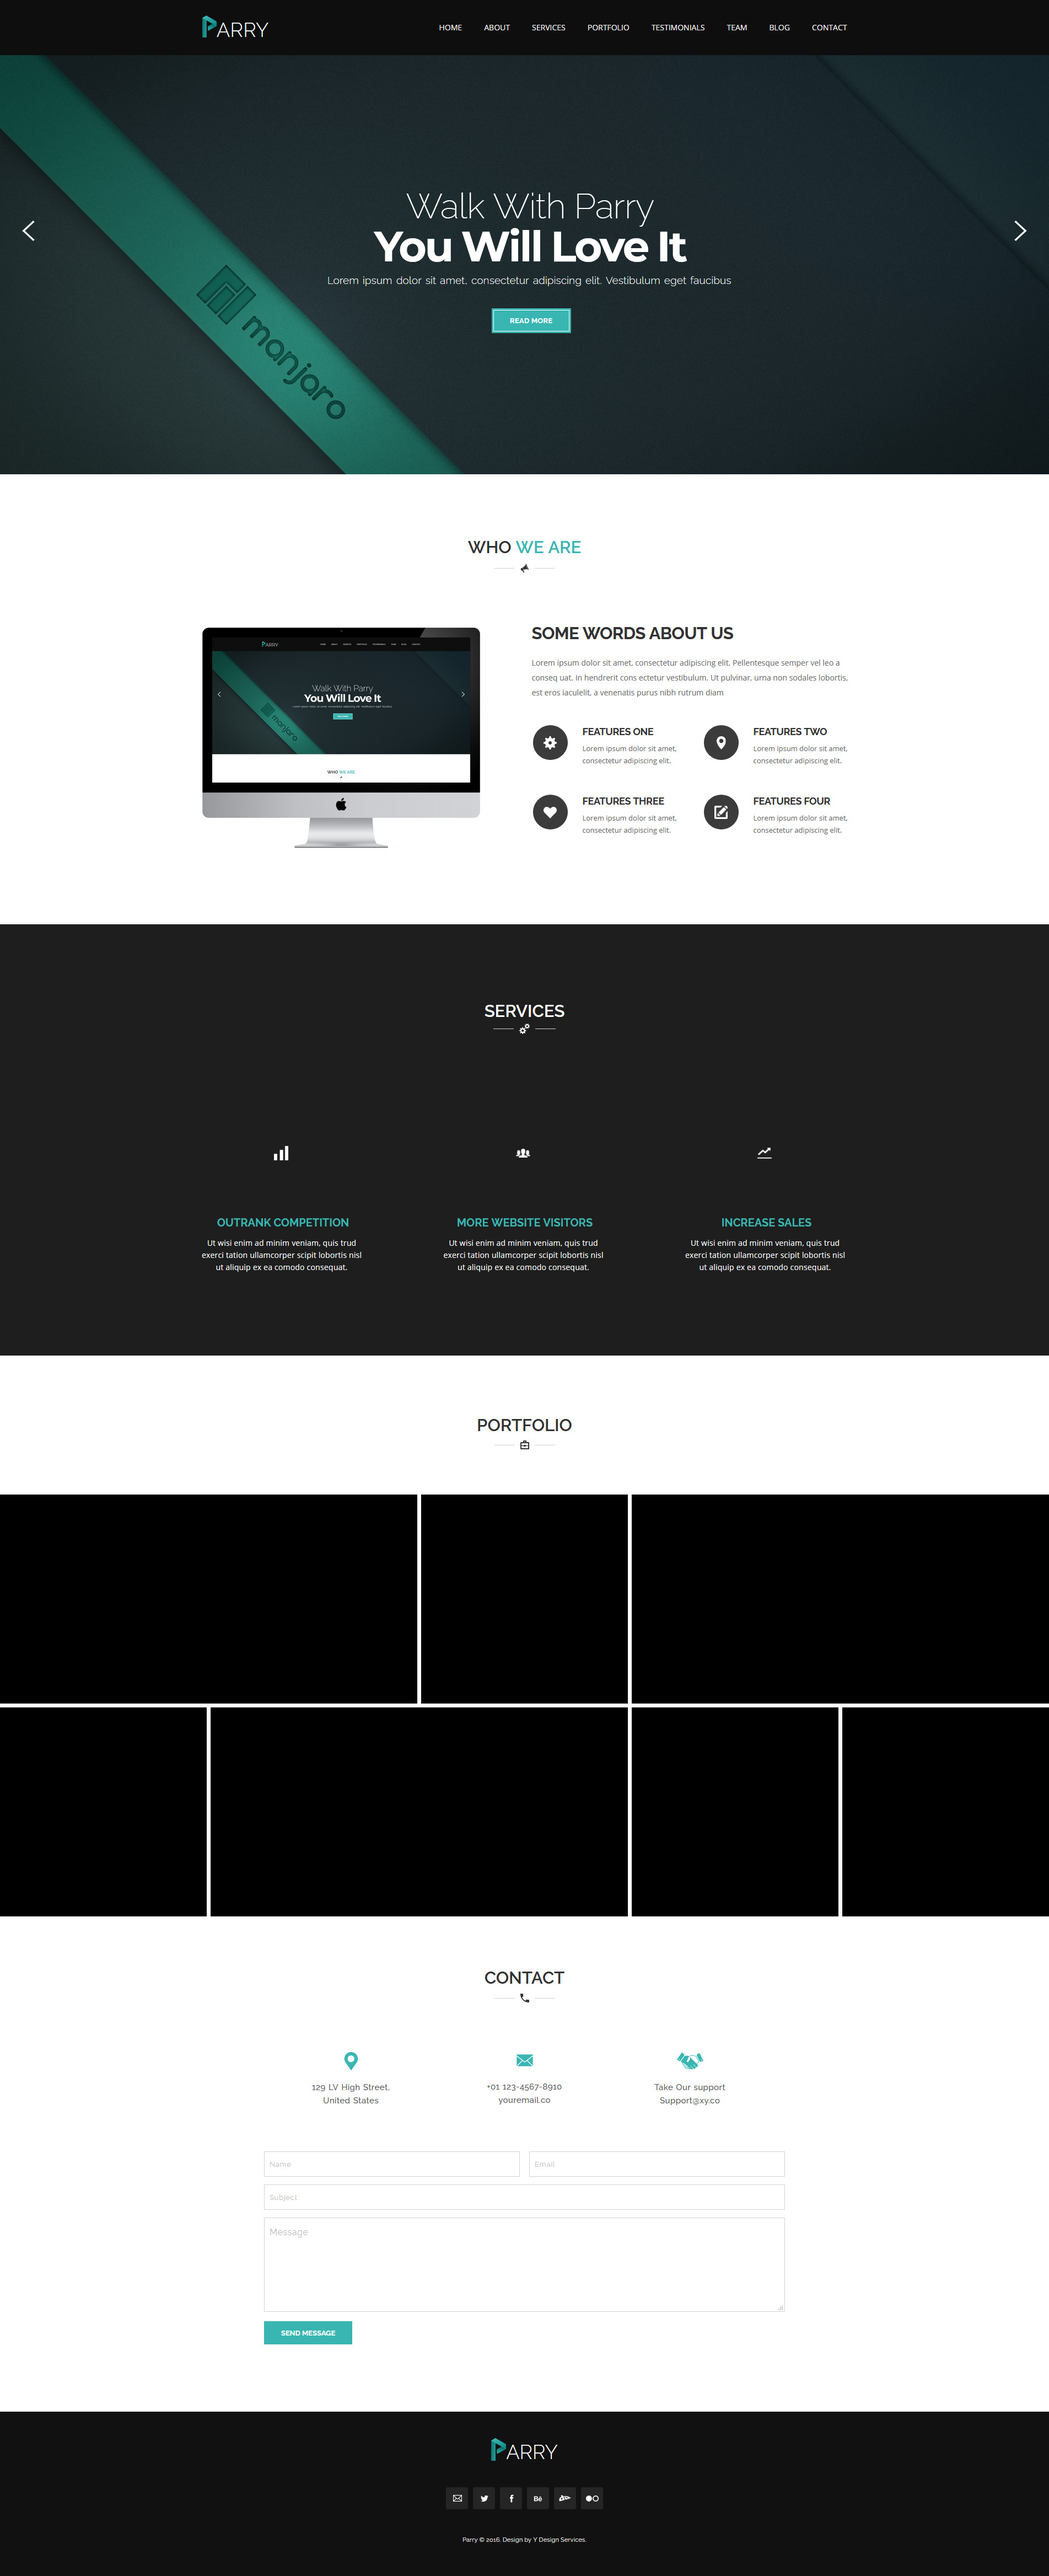
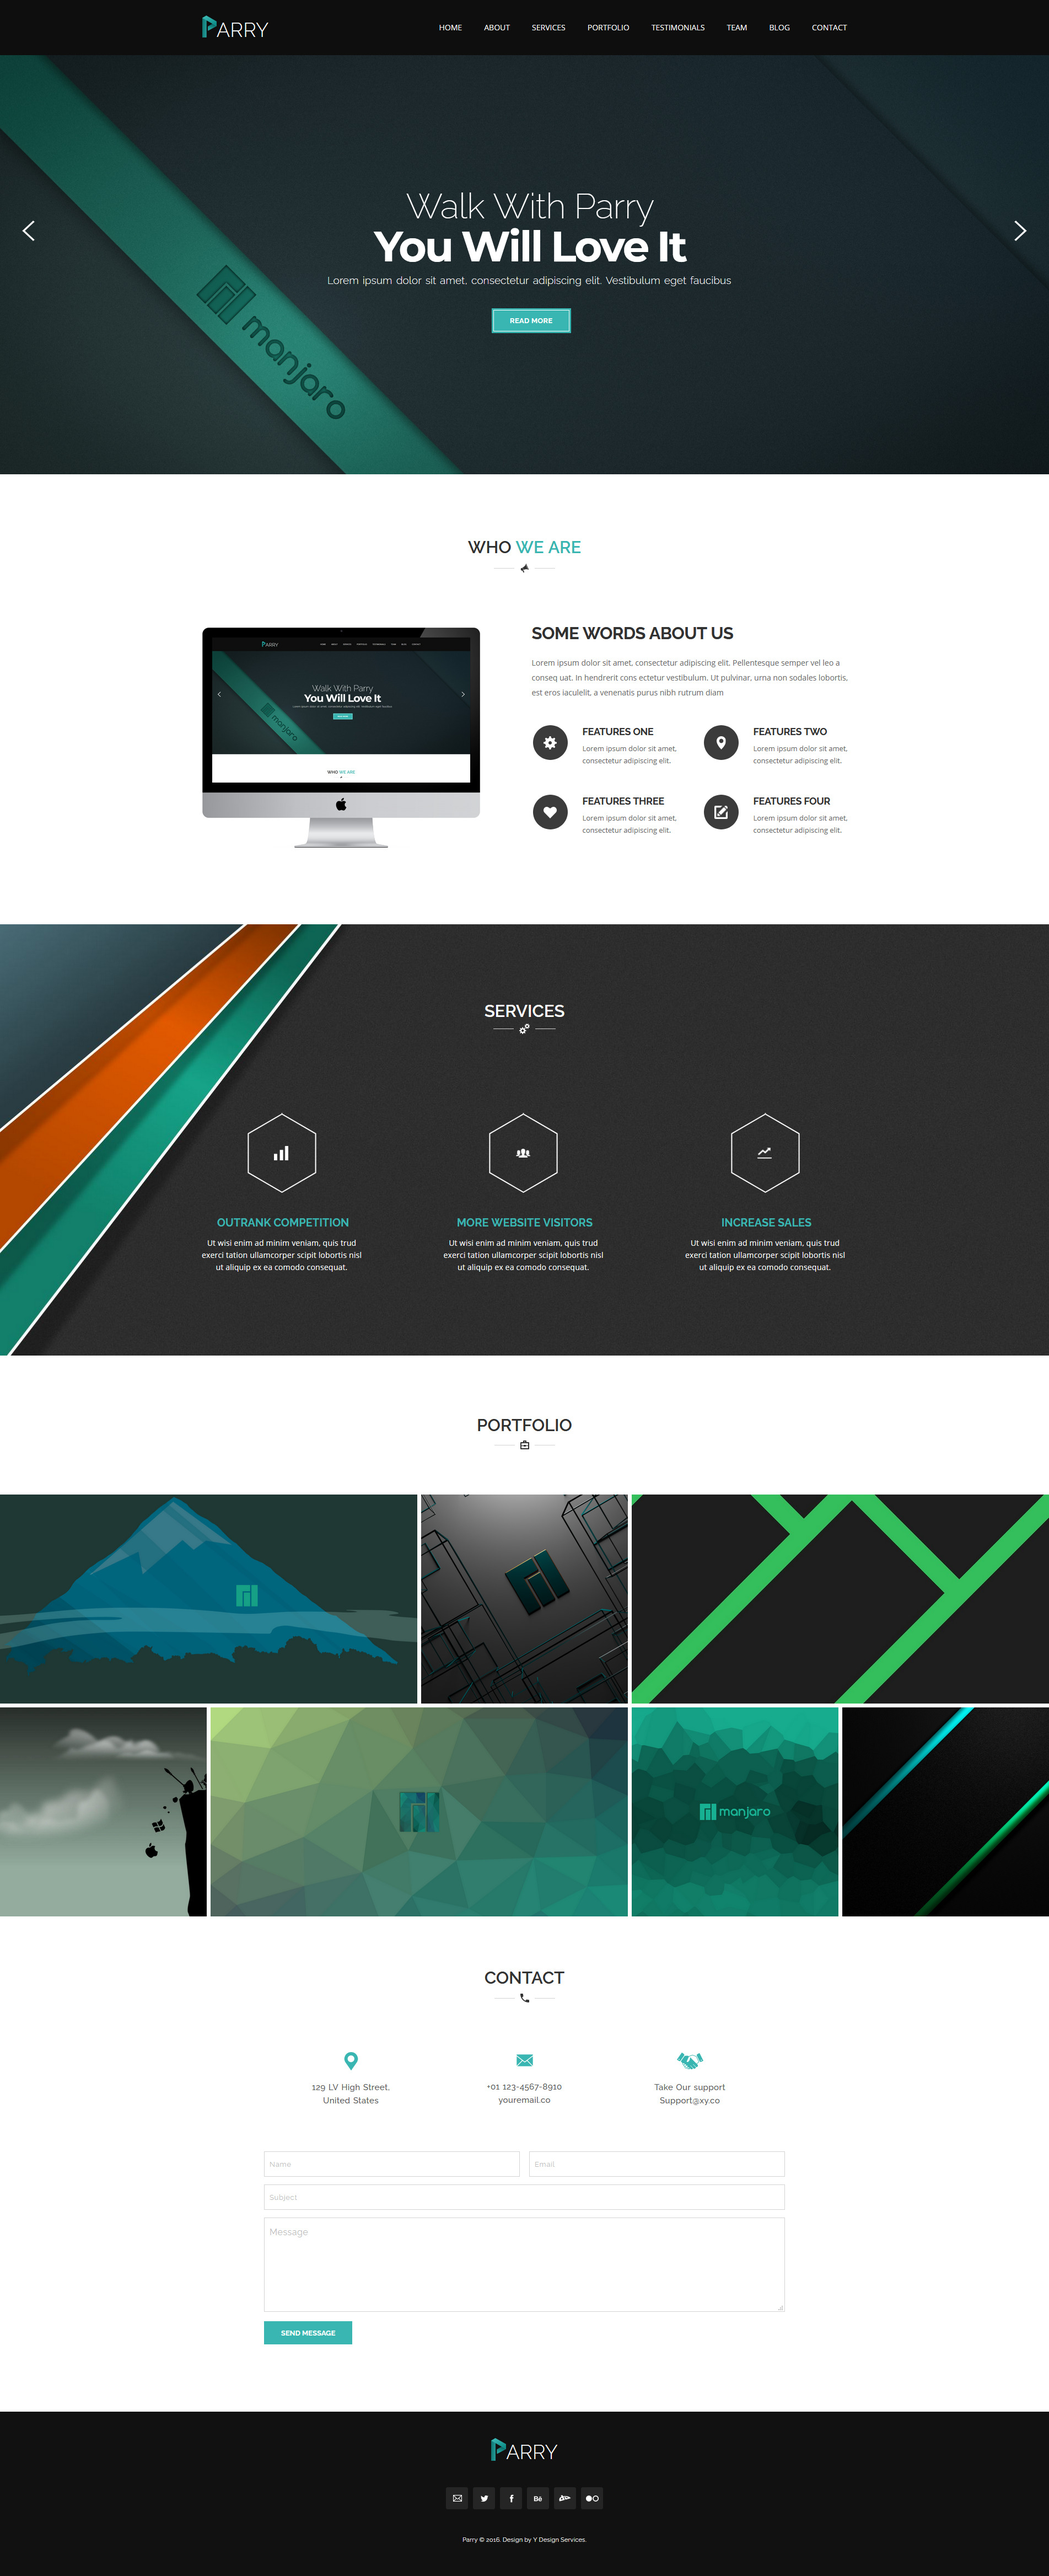
fix(transition, cards): Fix transition in menu and flipping of cardboards

Changed region(s): [[0.0, 0.5588, 1.0, 0.745], [0.0, 0.3415, 0.31, 0.5277], [0.8681, 0.714, 0.9611, 0.745]]

diff --git a/build/style.css b/build/style.css
@@ -15,6 +15,7 @@ span {
 
 html, body {
   min-width: 320px;
+  overflow-x: hidden;
 }
 
 .main {
@@ -142,6 +143,10 @@ header {
   width: 100%;
   align-items: center;
 }
+header .logo {
+  position: absolute;
+  left: 0;
+}
 header .logo .img {
   height: 100%;
 }
@@ -153,6 +158,12 @@ header .logo h1 {
   font-weight: 300;
   font-size: 1em;
 }
+header nav {
+  width: 740px;
+  display: block;
+  position: absolute;
+  right: 0;
+}
 header nav ul {
   width: 100%;
 }
@@ -163,17 +174,27 @@ header nav a {
   text-decoration: none;
 }
 header .burger {
+  display: flex;
+  position: absolute;
+  right: 0;
   background-color: #3AB6B2;
+  width: 56px;
+  height: 39px;
 }
 header .burger .inner {
+  width: 52px;
+  height: 35px;
   background-color: transparent;
   border: 1px solid #FFFFFF;
+}
+header .burger img {
+  width: 30px;
+  height: 12px;
 }
 
 @media screen and (min-width: 1025px) {
   header {
     grid-template-columns: minmax(25px, 1fr) minmax(970px, 1170px) minmax(25px, 1fr);
-    transition: all 1s;
   }
   header .logo {
     width: 121px;
@@ -184,23 +205,24 @@ header .burger .inner {
     margin-top: 12px;
     letter-spacing: 0.01em;
   }
-  header .burger {
-    display: none;
-  }
   header nav {
-    display: block;
     width: 740px;
     margin-bottom: 2px;
+    opacity: 1;
+    transition-property: width, margin-bottom, font-size, opacity;
+    transition-delay: 0s, 0s, 0s, 1s;
   }
   header nav a {
     font-size: 14px;
   }
-  header * {
-    transition: all 1s;
+  header .burger {
+    pointer-events: none;
+    opacity: 0;
   }
 }
 @media screen and (min-width: 1025px) and (max-width: 1200px) {
   header {
+    left: 0;
     height: 106px;
   }
   header .logo {
@@ -239,9 +261,11 @@ header .burger .inner {
     letter-spacing: 0.01em;
   }
   header .burger {
-    display: flex;
     width: 56px;
     height: 39px;
+    opacity: 1;
+    transition-property: width, height, opacity;
+    transition-delay: 0s, 0s, 1s;
   }
   header .burger .inner {
     width: 52px;
@@ -252,7 +276,8 @@ header .burger .inner {
     height: 12px;
   }
   header nav {
-    display: none;
+    pointer-events: none;
+    opacity: 0;
   }
 }
 @media screen and (max-width: 767px) {
@@ -273,11 +298,13 @@ header .burger .inner {
     letter-spacing: 0.01em;
   }
   header .burger {
-    display: flex;
     width: 17.5%;
     height: 50%;
     max-width: 56px;
     max-height: 39px;
+    opacity: 1;
+    transition-property: width, height, opacity;
+    transition-delay: 0s, 0s, 1s;
   }
   header .burger .inner {
     width: calc(100% - 4px);
@@ -289,7 +316,8 @@ header .burger .inner {
     height: 12px;
   }
   header nav {
-    display: none;
+    pointer-events: none;
+    opacity: 0;
   }
 }
 #home {
@@ -900,8 +928,9 @@ header .burger .inner {
   background-size: contain;
   background-position: center center;
 }
-#services .main .img:hover {
+#services .main .container:hover .img {
   background-image: url("../images/services/hexagon-hover.svg");
+  transform: rotateY(360deg);
 }
 
 @media screen and (min-width: 1025px) {

diff --git a/index.html b/index.html
@@ -149,22 +149,28 @@
             </div>
             <div class="main flex">
                 <div class="item">
-                    <div class="img center center-self">
-                        <img src="./images/services/chart.svg" alt="Chart Image">
+                    <div class="container">
+                        <div class="img center center-self">
+                            <img src="./images/services/chart.svg" alt="Chart Image">
+                        </div>
                     </div>
                     <h3>OUTRANK COMPETITION</h3>
                     <p>Ut wisi enim ad minim veniam, quis trud exerci tation ullamcorper scipit lobortis nisl ut aliquip ex ea comodo consequat.</p>
                 </div>
                 <div class="item">
-                    <div class="img center center-self">
-                        <img src="./images/services/visitors.svg" alt="Visitors Image">
+                    <div class="container">
+                        <div class="img center center-self">
+                            <img src="./images/services/visitors.svg" alt="Visitors Image">
+                        </div>
                     </div>
                     <h3>MORE WEBSITE VISITORS</h3>
                     <p>Ut wisi enim ad minim veniam, quis trud exerci tation ullamcorper scipit lobortis nisl ut aliquip ex ea comodo consequat.</p>
                 </div>
                 <div class="item">
-                    <div class="img center center-self">
-                        <img src="./images/services/stocks.svg" alt="Stocks Image">
+                    <div class="container">
+                        <div class="img center center-self">
+                            <img src="./images/services/stocks.svg" alt="Stocks Image">
+                        </div>
                     </div>
                     <h3>INCREASE SALES</h3>
                     <p>Ut wisi enim ad minim veniam, quis trud exerci tation ullamcorper scipit lobortis nisl ut aliquip ex ea comodo consequat.</p>

diff --git a/styles/components/header/_desktop.scss b/styles/components/header/_desktop.scss
@@ -13,35 +13,30 @@
                 margin-top: 12px;
                 letter-spacing: 0.01em;
             }
-        }
-
-        .burger {
-            display: none;
-        }
-
-        
+        }        
 
         nav {
-            display: block;
-
             width: 740px;
             margin-bottom: 2px;
 
             a {
                 font-size: 14px;
             }
+            opacity: 1;
+            transition-property: width, margin-bottom, font-size, opacity;
+            transition-delay: 0s, 0s, 0s, 1s;
         }
 
-        transition: all 1s;
-        
-        * {
-            transition: all 1s;
+        .burger {
+            pointer-events: none;
+            opacity: 0;
         }
     }
 }
 
 @media screen and (min-width: 1025px) and (max-width: 1200px) {
     header{
+        left: 0;
         height: 106px;
 
         .logo {

diff --git a/styles/components/header/_base.scss b/styles/components/header/_base.scss
@@ -6,6 +6,9 @@ header {
     align-items: center;
 
     .logo {
+        position: absolute;
+        left: 0;
+
         .img {
             height: 100%;
 
@@ -22,6 +25,11 @@ header {
     }
 
     nav {
+        width: 740px;
+        display: block;
+        position: absolute;
+        right: 0;
+
         ul {
             width: 100%;
         }
@@ -35,11 +43,24 @@ header {
     }
 
     .burger {
+        display: flex;
+        position: absolute;
+        right: 0;
+
         background-color: $focus-color;
+        width: 56px;
+        height: 39px;
 
         .inner {
+            width: 52px;
+            height: 35px;
             background-color: transparent;
             border: 1px solid $inner-border-color;
+        }
+
+        img {
+            width: 30px;
+            height: 12px;
         }
     }
 }

diff --git a/styles/components/header/_mobile.scss b/styles/components/header/_mobile.scss
@@ -19,8 +19,7 @@
             }
         }
 
-        .burger { 
-            display: flex;
+        .burger {
             width: 17.5%;
             height: 50%;
             max-width: 56px;
@@ -36,10 +35,15 @@
                 max-width: 30px;
                 height: 12px;
             }
+
+            opacity: 1;
+            transition-property: width, height, opacity;
+            transition-delay: 0s, 0s, 1s;
         }
 
         nav {
-            display: none;
+            pointer-events: none;
+            opacity: 0;
         }
     }
 }

diff --git a/styles/components/header/_tablet.scss b/styles/components/header/_tablet.scss
@@ -17,8 +17,7 @@
             }
         }
 
-        .burger { 
-            display: flex;
+        .burger {
             width: 56px;
             height: 39px;
 
@@ -31,12 +30,17 @@
                 width: 30px;
                 height: 12px;
             }
+
+            opacity: 1;
+            transition-property: width, height, opacity;
+            transition-delay: 0s, 0s, 1s;
         }
 
         
 
         nav {
-            display: none;
+            pointer-events: none;
+            opacity: 0;
         }
     }
 }

diff --git a/styles/components/services/_base.scss b/styles/components/services/_base.scss
@@ -36,8 +36,9 @@
             background-position: center center;
         }
 
-        .img:hover {
+        .container:hover .img {
             background-image: url('../images/services/hexagon-hover.svg');
+            transform: rotateY(360deg);
         }
     }
 }

diff --git a/styles/_base.scss b/styles/_base.scss
@@ -19,6 +19,7 @@ span {
 
 html, body {
     min-width: 320px;
+    overflow-x: hidden;
 }
 
 .main {
